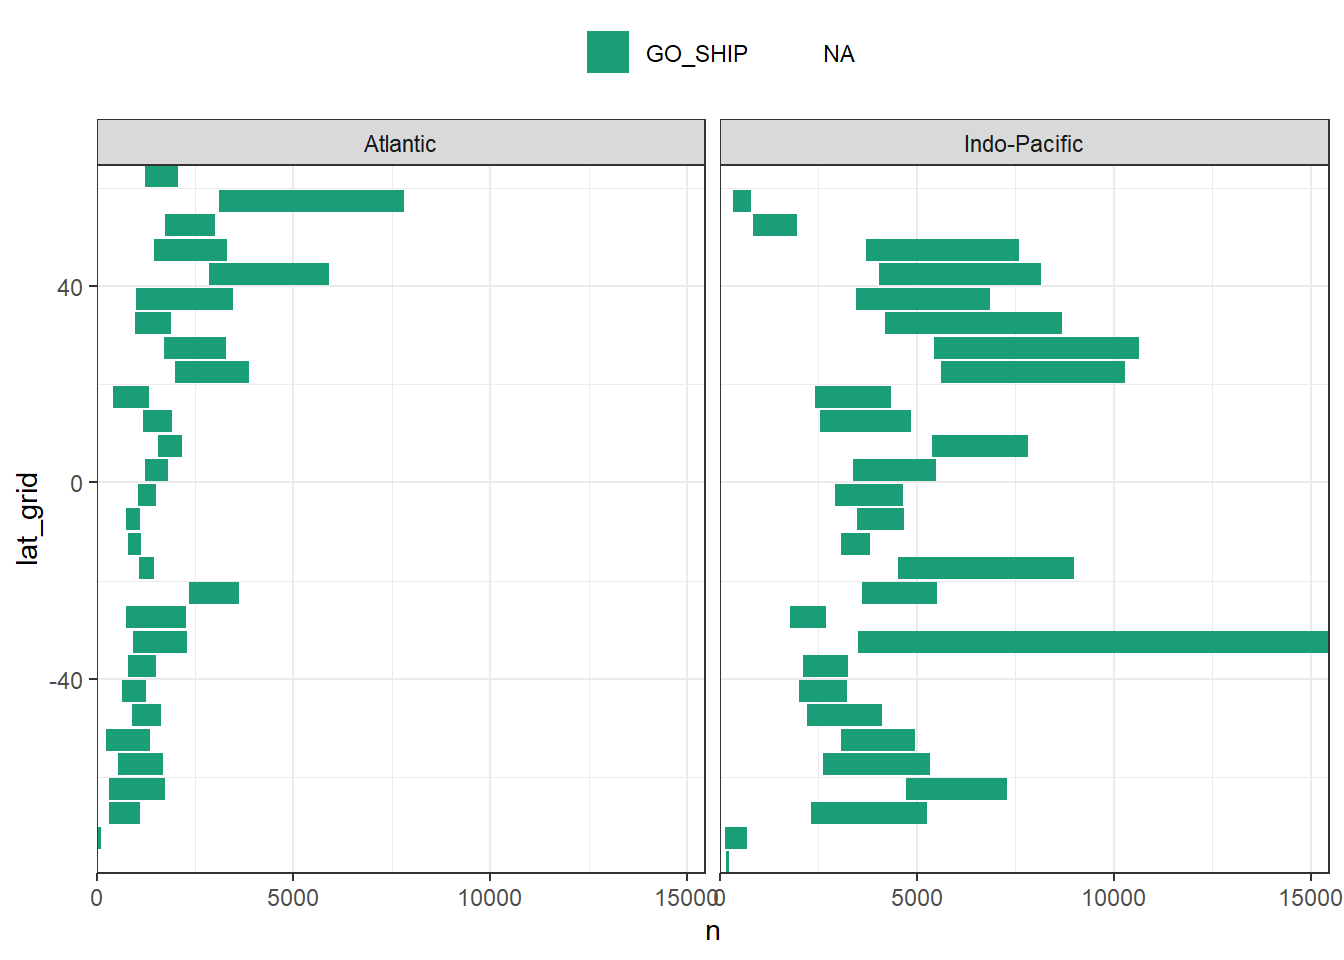
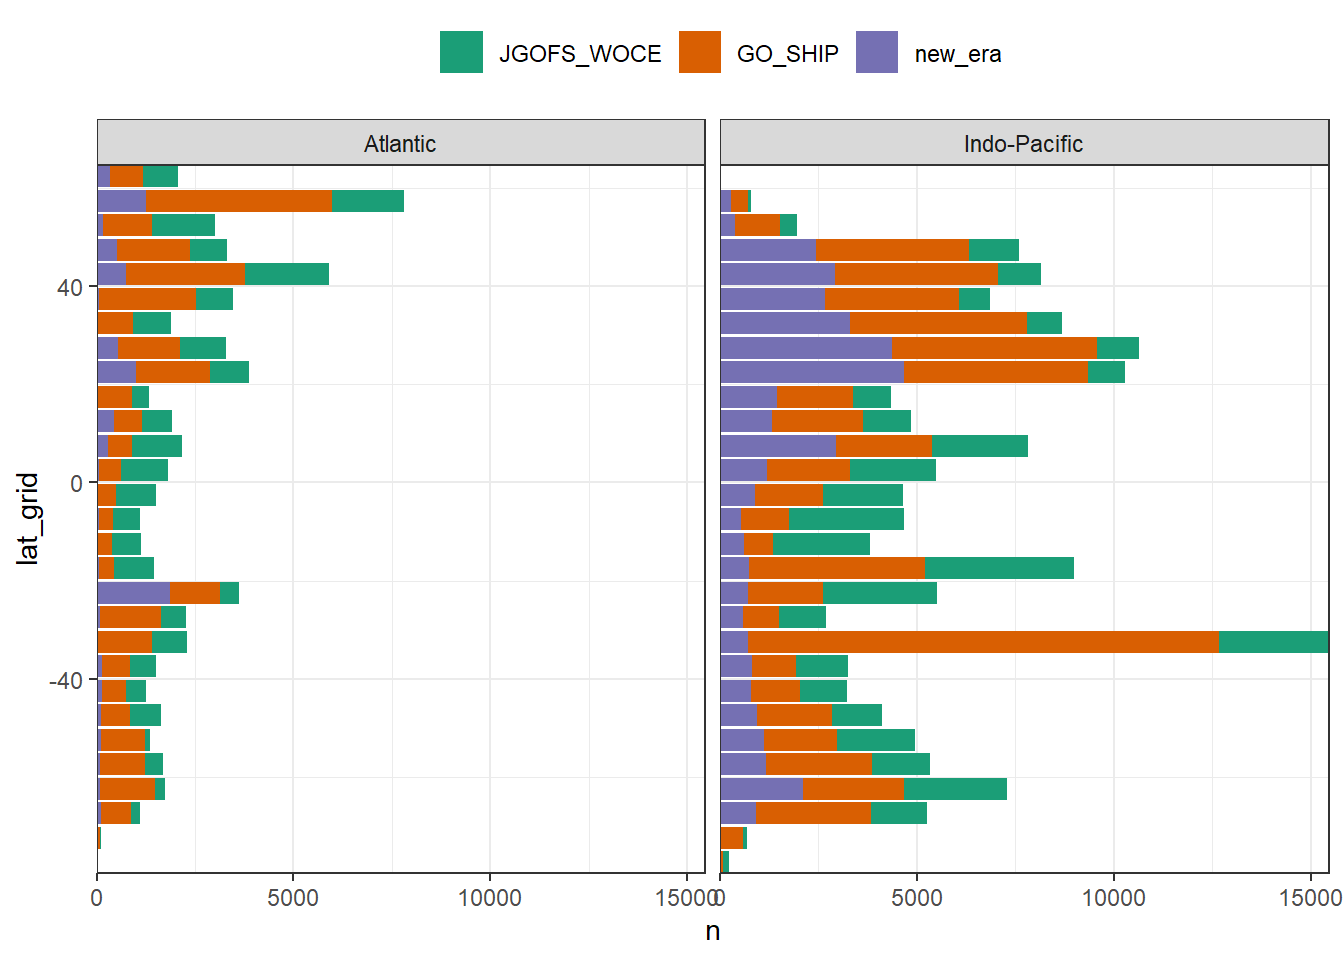
Build site.

Changed region(s): [[0.5312, 0.1875, 0.9062, 0.9062], [0.0625, 0.1562, 0.25, 0.875], [0.3125, 0.0312, 0.75, 0.0938]]

diff --git a/docs/read_GLODAPv2_2020.html b/docs/read_GLODAPv2_2020.html
@@ -615,16 +615,16 @@ This reproducible <a href="http://rmarkdown.rstudio.com">R Markdown</a> analysis
 <div class="panel panel-default">
 <div class="panel-heading">
 <p class="panel-title">
-<a data-toggle="collapse" data-parent="#workflowr-checks" href="#strongRepositoryversionstrongahrefhttpsgithubcomjensdanielmuellerCanteMLRtreebac1f3a98198546fe75f8038d7b40747059476f4targetblankbac1f3aa"> <span class="glyphicon glyphicon-ok text-success" aria-hidden="true"></span> <strong>Repository version:</strong> <a href="https://github.com/jens-daniel-mueller/Cant_eMLR/tree/bac1f3a98198546fe75f8038d7b40747059476f4" target="_blank">bac1f3a</a> </a>
+<a data-toggle="collapse" data-parent="#workflowr-checks" href="#strongRepositoryversionstrongahrefhttpsgithubcomjensdanielmuellerCanteMLRtreed998206462f6fad6e66efdce0947dd553b5b3c27targetblankd998206a"> <span class="glyphicon glyphicon-ok text-success" aria-hidden="true"></span> <strong>Repository version:</strong> <a href="https://github.com/jens-daniel-mueller/Cant_eMLR/tree/d998206462f6fad6e66efdce0947dd553b5b3c27" target="_blank">d998206</a> </a>
 </p>
 </div>
[2 lines of base64/hex data omitted]
 <div class="panel-body">
 <p>
 Great! You are using Git for version control. Tracking code development and connecting the code version to the results is critical for reproducibility.
 </p>
 <p>
-The results in this page were generated with repository version <a href="https://github.com/jens-daniel-mueller/Cant_eMLR/tree/bac1f3a98198546fe75f8038d7b40747059476f4" target="_blank">bac1f3a</a>. See the <em>Past versions</em> tab to see a history of the changes made to the R Markdown and HTML files.
+The results in this page were generated with repository version <a href="https://github.com/jens-daniel-mueller/Cant_eMLR/tree/d998206462f6fad6e66efdce0947dd553b5b3c27" target="_blank">d998206</a>. See the <em>Past versions</em> tab to see a history of the changes made to the R Markdown and HTML files.
 </p>
 <p>
 Note that you need to be careful to ensure that all relevant files for the analysis have been committed to Git prior to generating the results (you can use <code>wflow_publish</code> or <code>wflow_git_commit</code>). workflowr only checks the R Markdown file, but you know if there are other scripts or data files that it depends on. Below is the status of the Git repository when the results were generated:
@@ -632,7 +632,6 @@ Note that you need to be careful to ensure that all relevant files for the analy
 <pre><code>
 Ignored files:
     Ignored:    .Rproj.user/
-    Ignored:    analysis/figure/
     Ignored:    data/GLODAPv1_1/
     Ignored:    data/GLODAPv2_2016b_MappedClimatologies/
     Ignored:    data/GLODAPv2_2020/
@@ -685,6 +684,40 @@ Message
 </tr>
 </thead>
 <tbody>
+<tr>
+<td>
+Rmd
+</td>
+<td>
+<a href="https://github.com/jens-daniel-mueller/Cant_eMLR/blob/d998206462f6fad6e66efdce0947dd553b5b3c27/analysis/read_GLODAPv2_2020.Rmd" target="_blank">d998206</a>
+</td>
+<td>
+jens-daniel-mueller
+</td>
+<td>
+2020-09-04
+</td>
+<td>
+era as factor
+</td>
+</tr>
+<tr>
+<td>
+html
+</td>
+<td>
+<a href="https://rawcdn.githack.com/jens-daniel-mueller/Cant_eMLR/1dcd2939c0317aecd6df0aa737b1cab2e95a6be1/docs/read_GLODAPv2_2020.html" target="_blank">1dcd293</a>
+</td>
+<td>
+jens-daniel-mueller
+</td>
+<td>
+2020-09-04
+</td>
+<td>
+Build site.
+</td>
+</tr>
 <tr>
 <td>
 Rmd
@@ -3099,8 +3132,12 @@ ggplot() +
 <p><img src="figure/read_GLODAPv2_2020.Rmd/GLODAP_Atl_cruises_2013_2014_map-1.png" width="672" style="display: block; margin: auto;" /></p>
 <pre class="r"><code>rm(GLODAP_cruises)</code></pre>
 <pre class="r"><code>GLODAP &lt;- GLODAP %&gt;%
-  mutate(era = if_else(cruise %in% c(&quot;1041&quot;, &quot;1042&quot;),
-                       as.factor(&quot;GO_SHIP&quot;), era))</code></pre>
+  mutate(era = as.character(era)) %&gt;% 
+  mutate(era = if_else(cruise %in% c(1041, 1042),
+                      &quot;GO_SHIP&quot;, era))
+
+GLODAP &lt;- GLODAP %&gt;% 
+  mutate(era = factor(era, c(&quot;JGOFS_WOCE&quot;, &quot;GO_SHIP&quot;, &quot;new_era&quot;)))</code></pre>
 </div>
 </div>
 <div id="write-summary-file" class="section level2">
